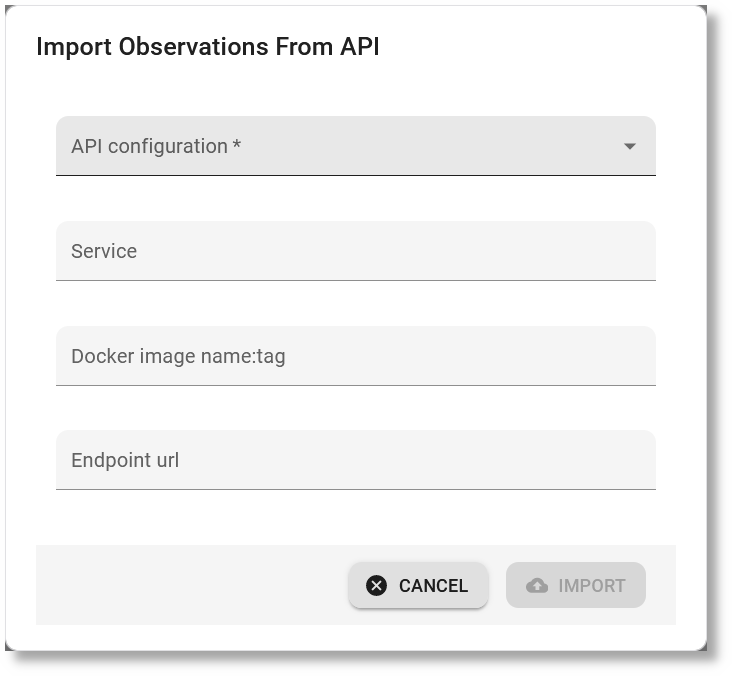
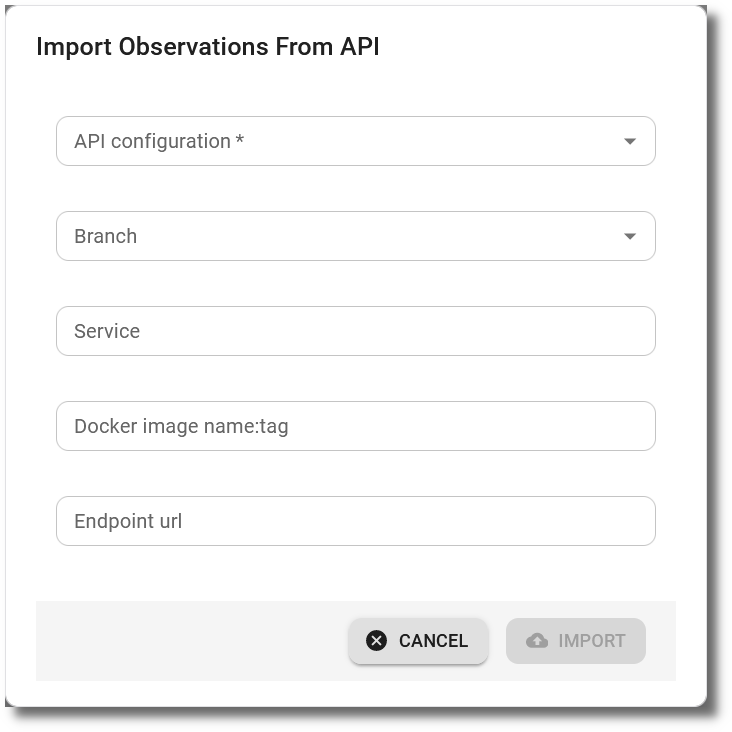
feat: branches - step 4 - ui optimization (#294)
* feat: branches - step 4 - ui optimization

* fix: changes after code review

diff --git a/frontend/src/core/products/ProductShow.tsx b/frontend/src/core/products/ProductShow.tsx
@@ -20,7 +20,6 @@ import {
     WithRecord,
     useRecordContext,
 } from "react-admin";
-import { useWatch } from "react-hook-form";
 
 import CreateProductApiToken from "../../access_control/product_api_token/ProductApiTokenCreate";
 import ProductApiTokenEmbeddedList from "../../access_control/product_api_token/ProductApiTokenEmbeddedList";
@@ -49,6 +48,7 @@ import ProductRuleCreate from "../../rules/product_rules/ProductRuleCreate";
 import ProductRuleEmbeddedList from "../../rules/product_rules/ProductRuleEmbeddedList";
 import BranchCreate from "../branches/BranchCreate";
 import BranchEmbeddedList from "../branches/BranchEmbeddedList";
+import ShowDefaultBranchObservationsButton from "../branches/ShowDefaultBranchObservationsButton";
 import ObservationCreate from "../observations/ObservationCreate";
 import ObservationsEmbeddedList from "../observations/ObservationEmbeddedList";
 import ProductMemberCreate from "../product_members/ProductMemberCreate";
@@ -208,17 +208,26 @@ const ProductShow = () => {
                                     </Stack>{" "}
                                 </SimpleShowLayout>
                             </Tab>
-                            <Tab label="Observations" path="observations" icon={<observations.icon />}>
-                                {product && product.permissions.includes(PERMISSION_OBSERVATION_CREATE) && (
-                                    <ObservationCreate id={product.id} />
-                                )}
-                                <ObservationsEmbeddedList product={product} />
-                            </Tab>
                             <Tab label="Branches" path="branches" icon={<AccountTreeIcon />}>
                                 {product && product.permissions.includes(PERMISSION_BRANCH_CREATE) && (
                                     <BranchCreate id={product.id} />
                                 )}
                                 <BranchEmbeddedList product={product} />
+                            </Tab>
+                            <Tab label="Observations" path="observations" icon={<observations.icon />}>
+                                <Stack
+                                    direction="row"
+                                    spacing={2}
+                                    sx={{
+                                        alignItems: "center",
+                                    }}
+                                >
+                                    {product && product.permissions.includes(PERMISSION_OBSERVATION_CREATE) && (
+                                        <ObservationCreate id={product.id} />
+                                    )}
+                                    <ShowDefaultBranchObservationsButton product={product} />
+                                </Stack>
+                                <ObservationsEmbeddedList product={product} />
                             </Tab>
                             <Tab label="Rules" path="rules" icon={<general_rules.icon />}>
                                 <Stack

diff --git a/frontend/src/core/branches/BranchEmbeddedList.tsx b/frontend/src/core/branches/BranchEmbeddedList.tsx
@@ -1,16 +1,9 @@
 import { Paper, Stack } from "@mui/material";
-import {
-    BooleanField,
-    Datagrid,
-    ListContextProvider,
-    Pagination,
-    TextField,
-    WithRecord,
-    useListController,
-} from "react-admin";
+import { BooleanField, Datagrid, ListContextProvider, Pagination, WithRecord, useListController } from "react-admin";
 
 import { PERMISSION_BRANCH_DELETE, PERMISSION_BRANCH_EDIT } from "../../access_control/types";
 import ObservationsCountField from "../../commons/custom_fields/ObservationsCountField";
+import TextUrlField from "../../commons/custom_fields/TextUrlField";
 import BranchDelete from "./BranchDelete";
 import BranchEdit from "./BranchEdit";
 
@@ -43,13 +36,22 @@ const BranchEmbeddedList = ({ product }: BranchEmbeddedListProps) => {
         listContext.data = [];
     }
 
+    function get_observations_url(product_id: number, branch_id: number): string {
+        return `#/products/${product_id}/show/observations?displayedFilters=%7B%7D&filter=%7B%22current_status%22%3A%22Open%22%2C%22branch%22%3A${branch_id}%7D&order=ASC&sort=current_severity`;
+    }
+
     return (
         <ListContextProvider value={listContext}>
             <div style={{ width: "100%" }}>
                 <Paper>
                     <Datagrid size="medium" sx={{ width: "100%" }} bulkActionButtons={false}>
-                        <TextField source="name" />
-                        <BooleanField source="is_default_branch" label="Default branch" />
+                        <WithRecord
+                            label="Name"
+                            render={(branch) => (
+                                <TextUrlField text={branch.name} url={get_observations_url(product.id, branch.id)} />
+                            )}
+                        />
+                        <BooleanField source="is_default_branch" label="Default branch" sortable={false} />
                         <ObservationsCountField withLabel={false} />
                         <WithRecord
                             render={(branch) => (

diff --git a/frontend/src/core/observations/ObservationEdit.tsx b/frontend/src/core/observations/ObservationEdit.tsx
@@ -7,12 +7,18 @@ import {
     SaveButton,
     SimpleForm,
     Toolbar,
+    WithRecord,
     required,
     useRecordContext,
 } from "react-admin";
 
 import { PERMISSION_OBSERVATION_DELETE } from "../../access_control/types";
-import { AutocompleteInputMedium, SelectInputWide, TextInputWide } from "../../commons/layout/themes";
+import {
+    AutocompleteInputMedium,
+    AutocompleteInputWide,
+    SelectInputWide,
+    TextInputWide,
+} from "../../commons/layout/themes";
 import { OBSERVATION_SEVERITY_CHOICES, OBSERVATION_STATUS_CHOICES } from "../../core/types";
 
 const CustomToolbar = () => {
@@ -61,6 +67,18 @@ const ObservationEdit = () => {
                     <SelectInputWide optionText="name" disabled={true} />
                 </ReferenceInput>
                 <Typography variant="h6">Observation</Typography>
+                <WithRecord
+                    render={(branch) => (
+                        <ReferenceInput
+                            source="branch"
+                            reference="branches"
+                            sort={{ field: "name", order: "ASC" }}
+                            filter={{ product: branch.product_data.id }}
+                        >
+                            <AutocompleteInputWide optionText="name" />
+                        </ReferenceInput>
+                    )}
+                />
                 <TextInputWide autoFocus source="title" validate={requiredValidate} />
                 <AutocompleteInputMedium
                     source="parser_severity"

diff --git a/frontend/src/commons/custom_fields/TextUrlField.tsx b/frontend/src/commons/custom_fields/TextUrlField.tsx
@@ -18,6 +18,20 @@ function is_valid_url(urlString: string): boolean {
     }
 }
 
+function is_valid_relative_url(urlString: string): boolean {
+    const RELATIVE_PATTERN = /^#\/.*$/gi;
+
+    try {
+        return Boolean(urlString.match(RELATIVE_PATTERN));
+    } catch (e) {
+        return false;
+    }
+}
+
+function is_invalid_url(urlString: string): boolean {
+    return !is_valid_url(urlString) && !is_valid_relative_url(urlString);
+}
+
 const TextUrlField = (props: TextUrlFieldProps) => {
     const { classes } = useStyles();
 
@@ -40,7 +54,21 @@ const TextUrlField = (props: TextUrlFieldProps) => {
                     <LaunchIcon sx={{ fontSize: "0.8rem" }} />
                 </a>
             )}
-            {!is_valid_url(props.url) && (
+            {is_valid_relative_url(props.url) && (
+                <a
+                    href={props.url} // nosemgrep: typescript.react.security.audit.react-href-var.react-href-var
+                    // nosemgrep because is_valid_url() sanitizes the url
+                    className={classes.link}
+                    style={{
+                        fontSize: "0.875rem",
+                        fontFamily: "Roboto",
+                        lineHeight: 1.43,
+                    }}
+                >
+                    {props.text}
+                </a>
+            )}
+            {is_invalid_url(props.url) && (
                 <span
                     style={{
                         fontSize: "0.875rem",

diff --git a/frontend/src/core/branches/ShowDefaultBranchObservationsButton.tsx b/frontend/src/core/branches/ShowDefaultBranchObservationsButton.tsx
@@ -1,0 +1,40 @@
+import { Button } from "@mui/material";
+import * as React from "react";
+import { Identifier } from "react-admin";
+import { useNavigate } from "react-router";
+
+import observations from "../../core/observations";
+import { Product } from "../../core/types";
+
+export type ShowDefaultBranchObservationsButtonProps = {
+    product: Product;
+};
+
+const ShowDefaultBranchObservationsButton = ({ product }: ShowDefaultBranchObservationsButtonProps) => {
+    const navigate = useNavigate();
+
+    function get_observations_url(product_id: Identifier, branch_id: Identifier): string {
+        return `?displayedFilters=%7B%7D&filter=%7B%22current_status%22%3A%22Open%22%2C%22branch%22%3A${branch_id}%7D&order=ASC&sort=current_severity`;
+    }
+
+    const navigateToObservations = () => {
+        navigate(get_observations_url(product.id, product.repository_default_branch));
+    };
+
+    return (
+        <React.Fragment>
+            {product.repository_default_branch && (
+                <Button
+                    variant="contained"
+                    onClick={navigateToObservations}
+                    sx={{ mr: "7px", width: "fit-content", fontSize: "0.8125rem" }}
+                    startIcon={<observations.icon />}
+                >
+                    Show default branch observations
+                </Button>
+            )}
+        </React.Fragment>
+    );
+};
+
+export default ShowDefaultBranchObservationsButton;

diff --git a/frontend/src/core/observations/ObservationCreate.tsx b/frontend/src/core/observations/ObservationCreate.tsx
@@ -15,7 +15,12 @@ import {
     useRefresh,
 } from "react-admin";
 
-import { AutocompleteInputMedium, SelectInputWide, TextInputWide } from "../../commons/layout/themes";
+import {
+    AutocompleteInputMedium,
+    AutocompleteInputWide,
+    SelectInputWide,
+    TextInputWide,
+} from "../../commons/layout/themes";
 import { OBSERVATION_SEVERITY_CHOICES, OBSERVATION_STATUS_CHOICES, OBSERVATION_STATUS_OPEN } from "../../core/types";
 
 export type ObservationCreateProps = {
@@ -101,6 +106,14 @@ const ObservationCreate = ({ id }: ObservationCreateProps) => {
                                 <SelectInputWide optionText="name" defaultValue={id} disabled={true} />
                             </ReferenceInput>
                             <Typography variant="h6">Observation</Typography>
+                            <ReferenceInput
+                                source="branch"
+                                reference="branches"
+                                sort={{ field: "name", order: "ASC" }}
+                                filter={{ product: id }}
+                            >
+                                <AutocompleteInputWide optionText="name" />
+                            </ReferenceInput>
                             <TextInputWide autoFocus source="title" validate={requiredValidate} />
                             <AutocompleteInputMedium
                                 source="parser_severity"

diff --git a/backend/application/core/api/serializers.py b/backend/application/core/api/serializers.py
@@ -375,6 +375,14 @@ class ObservationUpdateSerializer(ModelSerializer):
         attrs["import_last_seen"] = make_aware(datetime.now())
         return super().validate(attrs)
 
+    def validate_branch(self, branch: Branch) -> Branch:
+        if branch and branch.product != self.instance.product:
+            raise ValidationError(
+                "Branch does not belong to the same product as the observation"
+            )
+
+        return branch
+
     def update(self, instance: Observation, validated_data: dict):
         actual_severity = instance.current_severity
         actual_status = instance.current_status
@@ -417,6 +425,7 @@ class ObservationUpdateSerializer(ModelSerializer):
     class Meta:
         model = Observation
         fields = [
+            "branch",
             "title",
             "description",
             "recommendation",
@@ -437,6 +446,13 @@ class ObservationCreateSerializer(ModelSerializer):
         attrs["parser"] = Parser.objects.get(type=Parser.TYPE_MANUAL)
         attrs["scanner"] = Parser.TYPE_MANUAL
         attrs["import_last_seen"] = make_aware(datetime.now())
+
+        if attrs.get("branch"):
+            if attrs["branch"].product != attrs["product"]:
+                raise ValidationError(
+                    "Branch does not belong to the same product as the observation"
+                )
+
         return super().validate(attrs)
 
     def create(self, validated_data):
@@ -462,6 +478,7 @@ class ObservationCreateSerializer(ModelSerializer):
         model = Observation
         fields = [
             "product",
+            "branch",
             "title",
             "description",
             "recommendation",

diff --git a/docs/usage/branches.md b/docs/usage/branches.md
@@ -8,10 +8,16 @@ A product has a list of branches. They can either be created manually from the *
 
 The list of branches shows the severities of open observations for each branch.
 
+Clicking on the name of a branch brings up the list of open observations for that branch.
+
 ## Repository default branch
 
 The **Repository default branch** should always be set, when branches are used in the observations. The metrics on the dashboard and on the **Metrics** tab as well as the severites in the header when showing a product are calculated using the observations where the default branch is set.
 
-The repository default branch can be set manually while editing a product. If it is not set manually, it will be set automatically after importing observations with the branch name used for the import.
+The repository default branch can be set manually while editing a product. If it is not set manually, it will be set automatically with the first branch that is created, either after importing observations with a branch name or by manually creating a branch.
 
 ![Branches in the product](../assets/images/screenshot_product_default_branch.png)
+
+When the repository default branch is set, the Observations tab shows a button to show all open observations for the default branch.
+
+![Observations default branch button](../assets/images/screenshot_observations_default_branch.png)
